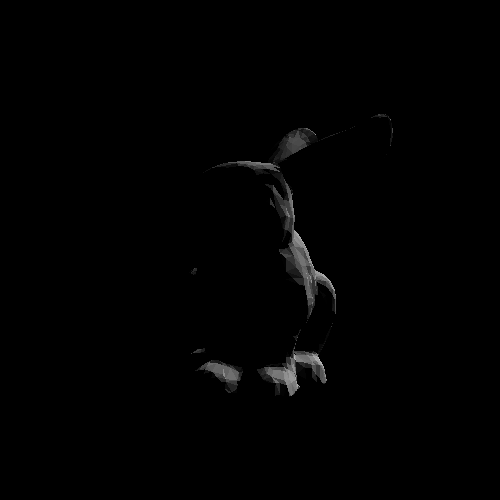
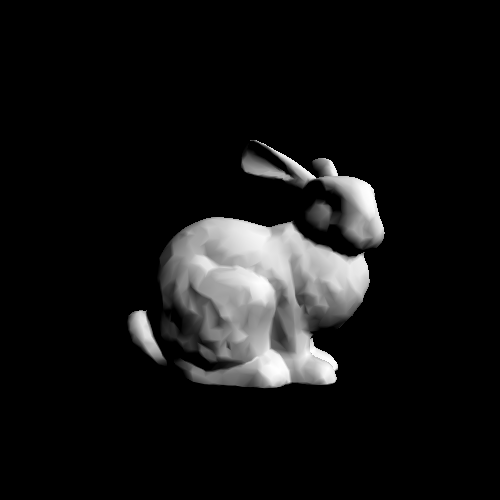
uv mapping

Changed region(s): [[0.24, 0.24, 0.78, 0.81], [0.75, 0.21, 0.78, 0.24]]

diff --git a/object_renderer.py b/object_renderer.py
@@ -8,18 +8,25 @@ from projection import Projection
 from util import baricentric, normal_scalar_mul
 
 
+
 class ObjectRenderer:
     def __init__(self, canvas: Canvas, projection: Projection):
         self.canvas = canvas
         self.projection = projection
         h, w, _ = canvas.shape()
-        self.z_buffer = np.ones((h, w))*1000
+        self.z_buffer = np.ones((h, w)) * 1000
 
     def render(self, obj: Object, light_vector, color):
+        self.canvas.clear()
+        h, w, _ = self.canvas.shape()
+        self.z_buffer = np.ones((h, w)) * 1000
         mesh = obj.mesh
         h, w, _ = self.canvas.shape()
-        for polygon in tqdm(mesh.polygons):
-            points_data = list(map(lambda index: mesh.vertices[index-1], polygon))
+        has_texture = obj.texture is not None and len(mesh.vertex_textures) >= len(mesh.vertices)
+        if has_texture:
+            th, tw, tc = obj.texture.shape
+        for p_index, polygon in enumerate(tqdm(mesh.polygons)):
+            points_data = list(map(lambda index: mesh.vertices[index - 1], polygon))
             projected = [self.projection.project(vertex, w, h) for vertex in points_data]
 
             x_min = int(np.clip(min(projected, key=lambda vertex: vertex[0])[0], 0, w))
@@ -32,8 +39,8 @@ class ObjectRenderer:
             if y_max < h:
                 y_max += 1
 
-            cc = normal_scalar_mul(mesh.polygon_normals[mesh.polygons.index(polygon)], light_vector)*255
-            color = (cc, cc, cc)
+            # cc = normal_scalar_mul(mesh.polygon_normals[mesh.polygons.index(polygon)], light_vector)*255
+            # color = (cc, cc, cc)
             # print(color)
 
             for x in range(x_min, x_max):
@@ -45,16 +52,27 @@ class ObjectRenderer:
                         # print(z)
                         if z < self.z_buffer[y, x]:
                             self.z_buffer[y, x] = z
-                            # if light_vector is not None:
-                            #     # l0 = normal_scalar_mul(mesh.vertex_normals[polygon[0] - 1], light_vector)
-                            #     # l1 = normal_scalar_mul(mesh.vertex_normals[polygon[1] - 1], light_vector)
-                            #     # l2 = normal_scalar_mul(mesh.vertex_normals[polygon[2] - 1], light_vector)
-                            #     # cc = (lambda0*l0 + lambda1*l1 + lambda2*l2)*255
-                            #     cc = normal_scalar_mul(mesh.polygons[mesh.polygons.index(polygon)], light_vector)
-                            #     color = (cc, cc, cc)
+                            if light_vector is not None:
+                                l0 = normal_scalar_mul(mesh.vertex_normals[polygon[0] - 1], light_vector)
+                                l1 = normal_scalar_mul(mesh.vertex_normals[polygon[1] - 1], light_vector)
+                                l2 = normal_scalar_mul(mesh.vertex_normals[polygon[2] - 1], light_vector)
+                                diffuse = lambda0 * l0 + lambda1 * l1 + lambda2 * l2
+
+                                light_coeff = (diffuse + 0.5)/2
+                                # cc = normal_scalar_mul(mesh.polygons[mesh.polygons.index(polygon)], light_vector)
+                                if has_texture:
+                                    vertex_textures = mesh.polygons_vertex_textures[p_index]
+                                    vt_data = list(map(lambda index: mesh.vertex_textures[index - 1], vertex_textures))
+                                    # print()
+                                    u = (lambda0 * vt_data[0][0]
+                                         + lambda1 * vt_data[1][0]
+                                         + lambda2 * vt_data[2][0])*tw
+                                    v = (lambda0 * vt_data[0][1]
+                                         + lambda1 * vt_data[1][1]
+                                         + lambda2 * vt_data[2][1])*th
+
+                                    color = obj.texture[th-int(v), int(u)]*light_coeff
+                                else:
+                                    cc = light_coeff * 255
+                                    color = (cc, cc, cc)
                             self.canvas.fill_pixel(x, y, color)
-
-
-
-
-

diff --git a/mesh.py b/mesh.py
@@ -9,21 +9,33 @@ class Mesh:
         self.polygons = []
         self.polygon_normals = []
         self.vertex_normals = []
+        self.vertex_textures = []
+        self.polygons_vertex_textures = []
 
     def read(self, path: str):
         with open(path) as obj_file:
             for line in obj_file.readlines():
                 t = line.split()
-                if t[0] == 'v':
-                    self.vertices.append(np.array(list(map(float, t[1:4]))))
-                if t[0] == 'f':
-                    polygon = [int(s.split('/')[0]) for s in t[1:]]
-                    self.polygons.append(polygon)
+                if len(t) > 1:
+                    if t[0] == 'v':
+                        self.vertices.append(np.array(list(map(float, t[1:4]))))
+                    if t[0] == 'f':
+                        polygon = [int(s.split('/')[0]) for s in t[1:4]]
+                        self.polygons.append(polygon)
+
+                        polygon_vt = [int(s.split('/')[1]) for s in t[1:4]]
+                        # print(polygon_vt)
+                        self.polygons_vertex_textures.append(polygon_vt)
+
+                    if t[0] == 'vt':
+                        self.vertex_textures.append((float(t[1]), float(t[2])))
             for i in range(len(self.polygons)):
                 self.polygon_normals.append(self.calc_polygon_normal(i))
-            for i in range(len(self.vertices)):
-                self.vertex_normals.append(self.calc_vertex_normal(i+1))
-        print(len(self.vertices), len(self.vertex_normals))
+            if len(self.vertices) != len(self.vertex_normals):
+                self.vertex_normals = []
+                for i in range(len(self.vertices)):
+                    self.vertex_normals.append(self.calc_vertex_normal(i+1))
+        print(len(self.vertices), len(self.vertex_normals), len(self.vertex_textures))
 
     def get_polygon_points(self):
         return [

diff --git a/lab_3.py b/lab_3.py
@@ -1,3 +1,4 @@
+import cv2
 import numpy as np
 from tqdm import tqdm
 
@@ -11,30 +12,36 @@ from object_renderer import ObjectRenderer
 def perspective_test():
     FOV_X = 90 / 360 * (2 * np.pi)
     FOV_Y = 90 / 360 * (2 * np.pi)
-    CANVAS_X = 500
-    CANVAS_Y = 500
+    CANVAS_X = 1000
+    CANVAS_Y = 1000
 
     canvas = Canvas(CANVAS_X, CANVAS_Y, 3)
     projector = PerspectiveProjection(FOV_X, FOV_Y, 10, 1000)
     renderer = ObjectRenderer(canvas, projector)
 
     mesh = Mesh()
-    mesh.read('objs/test.obj')
+    mesh.read('objs/cat/cat_low.obj')
 
-    obj = Object(mesh)
-    obj.transform.shift_z = 4
-    obj.transform.shift_y = -1
+    img = cv2.imread('objs/cat/Cat_diffuse.jpg')
 
-    obj.transform.rot_y = 90 / 360 * 2 * np.pi
+    obj = Object(mesh, texture=img)
+    obj.transform.shift_z = 10
+    obj.transform.shift_y = -2
 
-    obj.transform.scale_x = 20
-    obj.transform.scale_y = 20
-    obj.transform.scale_z = 20
+    obj.transform.rot_y = 150 / 360 * 2 * np.pi
+    # obj.transform.rot_x = 90 / 360 * 2 * np.pi
+
+    obj.transform.scale_x = 0.1
+    obj.transform.scale_y = 0.1
+    obj.transform.scale_z = 0.1
 
     l2 = np.array([-1, -1, 1])
     renderer.render(obj, l2, None)
-
-    canvas.save('imgs/perspective_with_gouraud.png')
+    # for i in range(360//5):
+    #     obj.transform.rot_y = i*5 / 360 * 2 * np.pi
+    #     obj.transform.rot_x = i * 5 / 360 * 2 * np.pi
+    #     renderer.render(obj, l2, None)
+    canvas.save('imgs/cat.png')
 
 
 if __name__ == '__main__':

diff --git a/object.py b/object.py
@@ -1,12 +1,15 @@
+import numpy as np
+
 from mesh import Mesh
 from transform import Transform
 from copy import deepcopy
 
 
 class Object:
-    def __init__(self, mesh: Mesh):
+    def __init__(self, mesh: Mesh, texture: np.ndarray = None):
         self.transform = Transform.uniform()
         self.__mesh = mesh
+        self.__texture = texture
 
     @property
     def mesh(self) -> Mesh:
@@ -14,6 +17,15 @@ class Object:
 
         for i in range(len(new_mesh.vertices)):
             new_mesh.vertices[i] = self.transform.transform(new_mesh.vertices[i])
-            # new_mesh.vertex_normals[i] = self.transform.rotate(new_mesh.vertex_normals[i])
+            n = new_mesh.vertex_normals[i]
+            new_mesh.vertex_normals[i] = self.transform.rotate(new_mesh.vertex_normals[i])
+            # new_mesh.polygon_normals
+
+        for i in range(len(new_mesh.polygon_normals)):
+            new_mesh.polygon_normals[i] = self.transform.rotate(new_mesh.polygon_normals[i])
         return new_mesh
+
+    @property
+    def texture(self) -> np.ndarray:
+        return self.__texture
 

diff --git a/canvas.py b/canvas.py
@@ -75,6 +75,10 @@ class Canvas:
                 # except Exception:
                     # print(x, y, v1, v2, v3)
 
+    def clear(self):
+        h, w, c = self.__canvas.shape
+        self.__canvas = np.zeros((h, w, c))
+
     def save(self, path: str):
         cv2.imwrite(path, self.__canvas)
 

diff --git a/create_gif.py b/create_gif.py
@@ -1,0 +1,11 @@
+import imageio
+import os
+
+imgs = []
+
+path = 'imgs/vid/'
+filenames = os.listdir(path)
+for fname in sorted(filenames, key=lambda name: int(name[:name.find('.')])):
+    print(fname)
+    imgs.append(imageio.imread(path + fname))
+imageio.mimsave('imgs/rabbit2.gif', imgs, fps=36)
